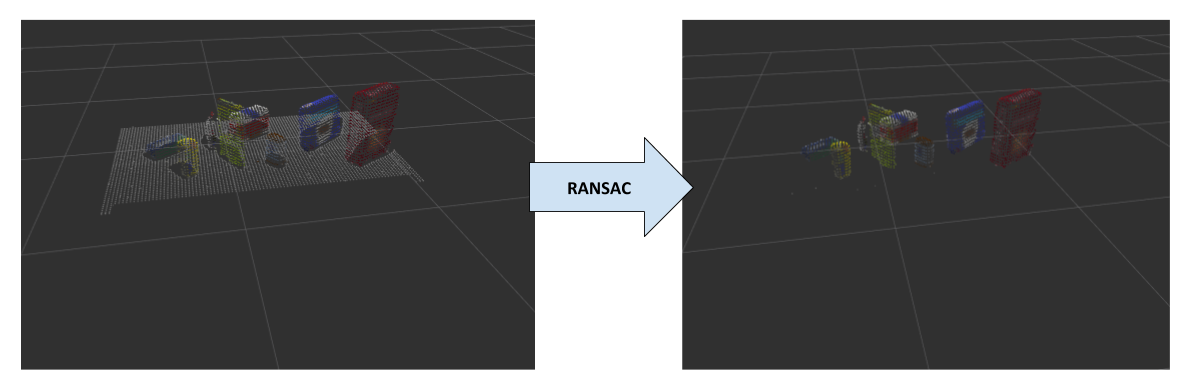
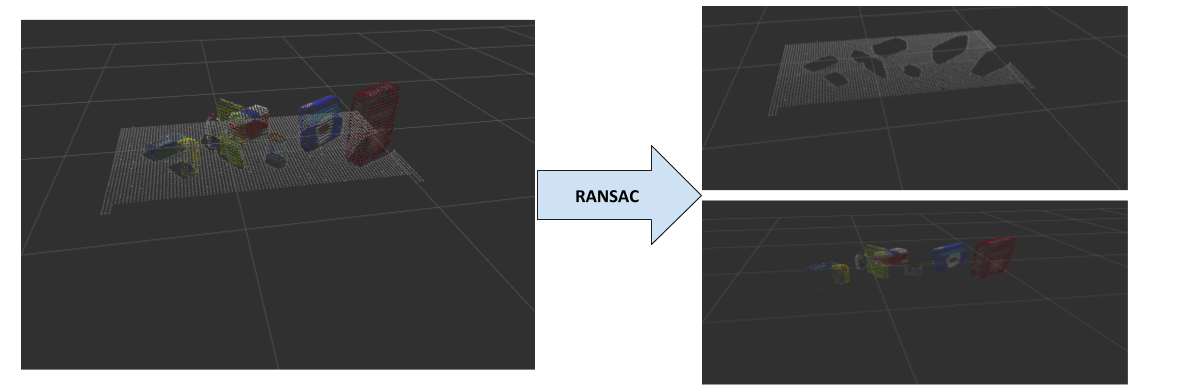
updated report

Changed region(s): [[0.4275, 0.0, 1.0, 1.0], [0.7023, 0.6122, 0.7634, 0.7041], [0.7939, 0.6122, 0.855, 0.6735]]

diff --git a/pr2_robot/scripts/perception/PCloudClusterMaker.py b/pr2_robot/scripts/perception/PCloudClusterMaker.py
@@ -6,6 +6,7 @@
 
 import numpy as np
 import pcl
+import time
 
 from PUtils import *
 
@@ -23,7 +24,12 @@ class PCloudClusterMaker( object ) :
 
     def cluster( self, cloud ) :
         # Apply dbscan get the cluster indices
+        print 'START TIMING - CLUSTERING ******************'
+        _t1 = time.time()
         _clusterIndices = self._dbscan( cloud )
+        _t2 = time.time()
+        print 'dbscan: ', ( ( _t2 - _t1 ) * 1000 ), ' ms'
+        print 'END TIMING - CLUSTERING ********************'
         # Create a cloud with colors for each cluster
         _cloudClustersColored = self._makeCloudForClustersViz( cloud,
                                                                _clusterIndices )
@@ -46,6 +52,7 @@ class PCloudClusterMaker( object ) :
         _kdtree = _xyzCloud.make_kdtree()
         # Create cluster extractor and configure its properties
         _dbscanExtractor = _xyzCloud.make_EuclideanClusterExtraction()
+        _dbscanExtractor.set_SearchMethod( _kdtree )
         _dbscanExtractor.set_ClusterTolerance( PCloudClusterMakerParams.DBSCAN_CLUSTER_TOLERANCE )
         _dbscanExtractor.set_MinClusterSize( PCloudClusterMakerParams.DBSCAN_MIN_CLUSTER_SIZE )
         _dbscanExtractor.set_MaxClusterSize( PCloudClusterMakerParams.DBSCAN_MAX_CLUSTER_SIZE )

diff --git a/pr2_robot/scripts/perception_pipeline.py b/pr2_robot/scripts/perception_pipeline.py
@@ -3,6 +3,7 @@
 # Some libraries needed
 import rospy
 import numpy as np
+import time
 import pickle
 import sklearn
 # sensor stick package functionality
@@ -105,9 +106,10 @@ class PPipeline( object ) :
         # ###############################################################
 
         # CLASSIFICATION ################################################
-
+        print 'START TIMING - CLASSIFICATION ******************'
         _detectedObjectsLabels = []
         _detectedObjects = []
+        _t1 = time.time()
         for i in range( len( _clustersClouds ) ) :
             # get a specific object cloud
             _objCloud = _clustersClouds[i]
@@ -135,7 +137,9 @@ class PPipeline( object ) :
             _do.label = _predictedLabel
             _do.cloud = _rosObjCloud
             _detectedObjects.append( _do )
-
+        _t2 = time.time()
+        print 'classification: ', ( ( _t2 - _t1 ) * 1000 ), ' ms'
+        print 'END TIMING - CLASSIFICATION ******************'
         rospy.loginfo( 'Detected {} objects: {}'.format( len( _detectedObjectsLabels ), _detectedObjectsLabels ) )
         # Publish the list of detected objects
         self.m_pubDetectedObjects.publish( _detectedObjects )

diff --git a/pr2_robot/scripts/perception/PCloudFilter.py b/pr2_robot/scripts/perception/PCloudFilter.py
@@ -47,15 +47,15 @@ class PCloudFilter ( object ) :
         _fcloud = self._voxelGridDownsample( _fcloud )
         _t3 = time.time()
         _fcloud = self._passThroughFiltering( _fcloud )
-        if optpub is not None :
-            optpub.publish( pcl_to_ros( _fcloud ) )
+        # if optpub is not None :
+        #     optpub.publish( pcl_to_ros( _fcloud ) )
         _t4 = time.time()
         _tableCloud, _objectsCloud = self._ransacSegmentation( _fcloud )
         _t5 = time.time()
 
-        print 'downsampling: ', ( ( _t2 - _t1 ) * 1000 ), ' ms'
-        print 'passthroughf: ', ( ( _t3 - _t2 ) * 1000 ), ' ms'
-        print 'ransacsegmen: ', ( ( _t4 - _t3 ) * 1000 ), ' ms'
+        print 'denoisingf: ', ( ( _t2 - _t1 ) * 1000 ), ' ms'
+        print 'downsampling: ', ( ( _t3 - _t2 ) * 1000 ), ' ms'
+        print 'passthroughf: ', ( ( _t4 - _t3 ) * 1000 ), ' ms'
         print 'ransacsegmen: ', ( ( _t5 - _t4 ) * 1000 ), ' ms'
 
         print 'END TIMING - FILTERING ********************'

diff --git a/REPORT.md b/REPORT.md
@@ -19,6 +19,11 @@
 
 [img_sor_intuition]: imgs/img_sor_intuition.png
 [img_voxelgrid_intuition]: imgs/img_voxelgrid_intuition.png
+[img_passthrough_intuition]: imgs/img_passthrough_intuition.png
+[img_ransac_intuition]: imgs/img_ransac_intuition.png
+[img_cut_regions]: imgs/img_cut_regions.png
+
+[img_clustering]: imgs/img_clustering.png
 
 ## **About the project**
 
@@ -59,7 +64,7 @@ The steps implemented are the following :
 *   Region cutting using **Passthrough Filtering**
 *   Plane fitting using **RANSAC**
 
-This filters are already implemented in the **pcl** library, and we used them using the **python-pcl** bindings. The implementation of the filtering pipeline can be found in the file [**PCloudFilter.py**](https://github.com/wpumacay/RoboND-Perception-Project/blob/master/pr2_robot/scripts/perception/PCloudFilter.py).
+This filters are already implemented in the **pcl** library, and we used them with the **python-pcl** bindings. The implementation of the filtering pipeline can be found in the file [**PCloudFilter.py**](https://github.com/wpumacay/RoboND-Perception-Project/blob/master/pr2_robot/scripts/perception/PCloudFilter.py).
 
 ### 1. _**Noise removal**_
 
@@ -96,7 +101,7 @@ The call to the pcl function is located in the **_denoise** method in the [**PCl
 
 ### 2. _**Downsampling**_
 
-One way to save computation is working in a pointcloud with less datapoints ( kind of like working with a smaller resolution image ). This can be achieved by downsampling the pointcloud, which give us a less expensive cloud to make further computations.
+One way to save computation is working in a pointcloud with less datapoints ( kind of like working with a smaller resolution image ). This can be achieved by downsampling the pointcloud, which give us a less expensive cloud for the next stages of the pipeline.
 
 ![Downsample filtering][img_downsampling]
 
@@ -133,9 +138,17 @@ The next step in the pipeline is to isolate the objects and the tabletop in a si
 
 To do this, the simplest technique is to use some information of the scene, which in this case is that the objects are in certain region in front of the robot. This allows us to basically **cut** that region and keep only those points for later usage.
 
+![Passthrough filtering][img_cutting]
+
 The filter that implements this is the **Passthrough** filter, which cuts a whole **region** along a certain **axis** ( two more parameters to choose ).
 
-![Passthrough filtering][img_cutting]
+![Passthrough intuition][img_passthrough_intuition]
+
+In our case we used two filters along two different axes, which allowed us to remove the small portions of the left and right table that appeared in the pointcloud.
+
+![Passthrough regions][img_cut_regions]
+
+We used 2 pcl's passthrough filter in this step ( **z** and **y** axes ) with limits tuned according to the scene. This implementation can be found in the **_passThroughFiltering** method in the [**PCloudFilter.py**](https://github.com/wpumacay/RoboND-Perception-Project/blob/master/pr2_robot/scripts/perception/PCloudFilter.py) file.
 
 ```python
     # Passthrough filter params - z
@@ -170,7 +183,19 @@ The filter that implements this is the **Passthrough** filter, which cuts a whol
 
 ### 4. _**RANSAC**_
 
+The last step to get a cloud of only the objects in the table is to remove the table from the pointcloud. This can be achieved by extracting the points in the cloud that best fit a plane, which is the actual table ( again, using some information of the scene, as we know the table is a plane ).
+
+The problem is that if we fit a plane to the whole cloud using something like least squares, we would end up fitting a plane that would go through the pointcloud in "**average**", which kind of like cuts the cloud in the middle.
+
+To avoid this, we used the **RANdom SAmple Consensus** paradigm, which instead of fitting to the whole cloud, it fits to a smaller set that is in consensus with a given calculated plane. For more information, check [**this**](http://pointclouds.org/documentation/tutorials/random_sample_consensus.php) post.
+
+![RANSAC intuition][img_ransac_intuition]
+
+We made use of pcl's **RANSAC segmenter** with a parameter that represents the threshold for the consensus set, and got the following results ( extracted the table from the pointcloud, and then removed the table from cloud ).
+
 ![RANSAC fitting][img_ransac]
+
+The implementation of this step can be found in the **_ransacSegmentation** method, in the [**PCloudFilter.py**](https://github.com/wpumacay/RoboND-Perception-Project/blob/master/pr2_robot/scripts/perception/PCloudFilter.py) file.
 
 ```python
     # RANSAC segmentation params
@@ -197,15 +222,97 @@ The filter that implements this is the **Passthrough** filter, which cuts a whol
         return _tableCloud, _objectsCloud
 ```
 
-### 5. _**Parameter Tuning**_
+## **Segmentation using Euclidean Clustering**
 
-The previous filters mentioned had some parameters that had to be tuned in order to work correctly in the new setup. This is why we implemented a GUI tool to allow picking these parameters interactively.
+The filtering portion of the pipeline gave us a filtered cloud that contains only points that belong to the objects on top of the table. The next step is to cluster this cloud into subclouds, each belonging to a single object.
+
+Here we make use of the DBSCAN algorithm, also called Euclidean Clustering ( check [**here**](https://en.wikipedia.org/wiki/DBSCAN) and [**here**](https://www.naftaliharris.com/blog/visualizing-dbscan-clustering/) for further info ), which allows us to cluster a group of datapoints by closeness ( distance ) and density, without specifying the number of cluster in the set.
+
+![DBSCAN clustering][img_clustering]
+
+We used the pcl's [**Euclidean Clustering**](http://pointclouds.org/documentation/tutorials/cluster_extraction.php) algorithm, which makes use of a **kdtree** for faster search, and has 3 parameters to tune.
+
+*   Tolerance : distance a point can be to another to consider it neighbor in the cluster.
+*   Min cluster size : minimum number of points that a cluster can have.
+*   Max cluster size : maximum number of points that a cluster can have.
+
+The implementation of this step of the pipeline can be found in the [**PCloudClusterMaker.py**](https://github.com/wpumacay/RoboND-Perception-Project/blob/master/pr2_robot/scripts/perception/PCloudClusterMaker.py) file, in the **_dbscan** method.
+
+```python
+
+    # DBSCAN params
+    DBSCAN_CLUSTER_TOLERANCE = 0.025
+    DBSCAN_MIN_CLUSTER_SIZE = 30
+    DBSCAN_MAX_CLUSTER_SIZE = 2000
+
+    # ...
+
+    """
+    Applies Euclidean Clustering to the given cloud and ...
+    returns the cluster indices
+
+    :param cloud : the cloud to apply the clustering to
+    """
+    def _dbscan( self, cloud ) :
+        # transform the cloud to just an xyz cloud
+        _xyzCloud = XYZRGB_to_XYZ( cloud )
+        # create a kdtree for the cluster algorithm to use
+        _kdtree = _xyzCloud.make_kdtree()
+        # Create cluster extractor and configure its properties
+        _dbscanExtractor = _xyzCloud.make_EuclideanClusterExtraction()
+        _dbscanExtractor.set_SearchMethod( _kdtree )
+        _dbscanExtractor.set_ClusterTolerance( PCloudClusterMakerParams.DBSCAN_CLUSTER_TOLERANCE )
+        _dbscanExtractor.set_MinClusterSize( PCloudClusterMakerParams.DBSCAN_MIN_CLUSTER_SIZE )
+        _dbscanExtractor.set_MaxClusterSize( PCloudClusterMakerParams.DBSCAN_MAX_CLUSTER_SIZE )
+
+        return _dbscanExtractor.Extract()
+```
+
+
+## **Parameter Tuning**
+
+The filters and clusterer mentioned earlier had some parameters that had to be tuned in order to work correctly in the new setup. This is why we implemented a GUI tool to allows picking these parameters interactively.
 
 ![FILTERS TUNING TOOL][gif_filters_tuning]
 
-## **Segmentation using Euclidean Clustering**
+We reused some of the code made for the previous [**Kinematics**](https://github.com/wpumacay/RoboND-Kinematics-Project/blob/master/kuka_arm/scripts/utils/RIKpublisherUI.py) project; linked it to our actual perception pipeline, and made the GUI have control over the parameters of the pipeline, exposed as global static variables ( both sets of parameters can be found in the corresponding [**PCloudFilter.py**](https://github.com/wpumacay/RoboND-Perception-Project/blob/master/pr2_robot/scripts/perception/PCloudFilter.py) and [**PCloudClusterMaker.py**](https://github.com/wpumacay/RoboND-Perception-Project/blob/master/pr2_robot/scripts/perception/PCloudClusterMaker.py) files )
 
+```python
 
+# PCloudFilter.py
+
+class PCloudFilterParams :
+    # Voxel grid downsample params
+    VOXEL_LEAF_SIZE = [ 0.01, 0.01, 0.01 ]
+    # Passthrough filter params - z
+    PASSTHROUGH_AXIS_Z = 'z'
+    PASSTHROUGH_LIMITS_Z = [ 0.608, 0.88 ]
+    # Passthrough filter params - x
+    PASSTHROUGH_AXIS_Y = 'y'
+    PASSTHROUGH_LIMITS_Y = [ -0.456, 0.456 ]
+    # RANSAC segmentation params
+    RANSAC_THRESHOLD = 0.00545
+    # Statistical Outlier Removal (SOR) params
+    SOR_MEAN_K = 5
+    SOR_THRESHOLD_SCALE = 0.001
+
+# PCloudClusterMaker.py
+
+class PCloudClusterMakerParams :
+    # DBSCAN params
+    DBSCAN_CLUSTER_TOLERANCE = 0.025
+    DBSCAN_MIN_CLUSTER_SIZE = 30
+    DBSCAN_MAX_CLUSTER_SIZE = 2000
+
+```
+
+The implementation of the tool can be found in the [**PParameterTunerUI.py**](https://github.com/wpumacay/RoboND-Perception-Project/blob/master/pr2_robot/scripts/perception/PParameterTunerUI.py) file. 
+
+Also, we checked the time cost that each step took ( just in case ), and got the following costs :
+
+*   **Filtering** : _Denoising_ ~ 1300ms, _Downsampling_ ~ 36ms, _Passthrough_ ~ 0.5ms, _RANSAC_ ~ 1.8ms
+*   **Clustering** : _DBSCAN_ ~ 8ms
+*   **Classification** : _SVMpredict per object_ ~ 42ms
 
 ## **Feature extraction and object recognition**
 
@@ -213,9 +320,6 @@ The previous filters mentioned had some parameters that had to be tuned in order
 ### Pick and Place Setup
 
 #### 1. For all three tabletop setups (`test*.world`), perform object recognition, then read in respective pick list (`pick_list_*.yaml`). Next construct the messages that would comprise a valid `PickPlace` request output them to `.yaml` format.
-
-And here's another image! 
-![demo-2](https://user-images.githubusercontent.com/20687560/28748286-9f65680e-7468-11e7-83dc-f1a32380b89c.png)
 
 Spend some time at the end to discuss your code, what techniques you used, what worked and why, where the implementation might fail and how you might improve it if you were going to pursue this project further.  
 
